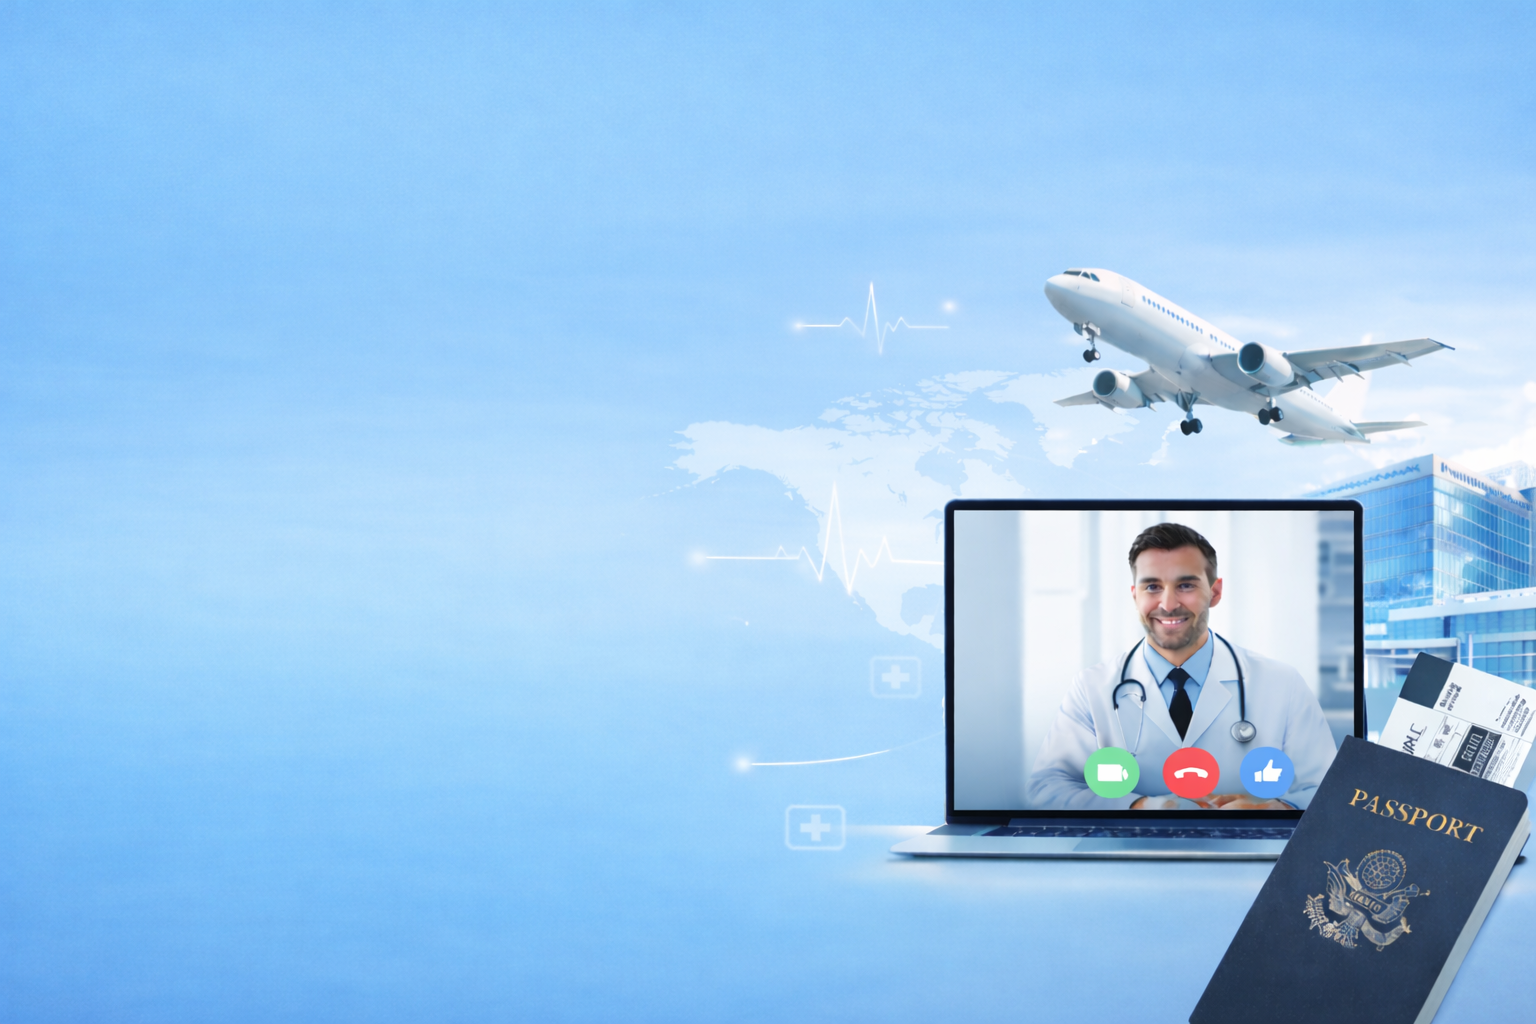
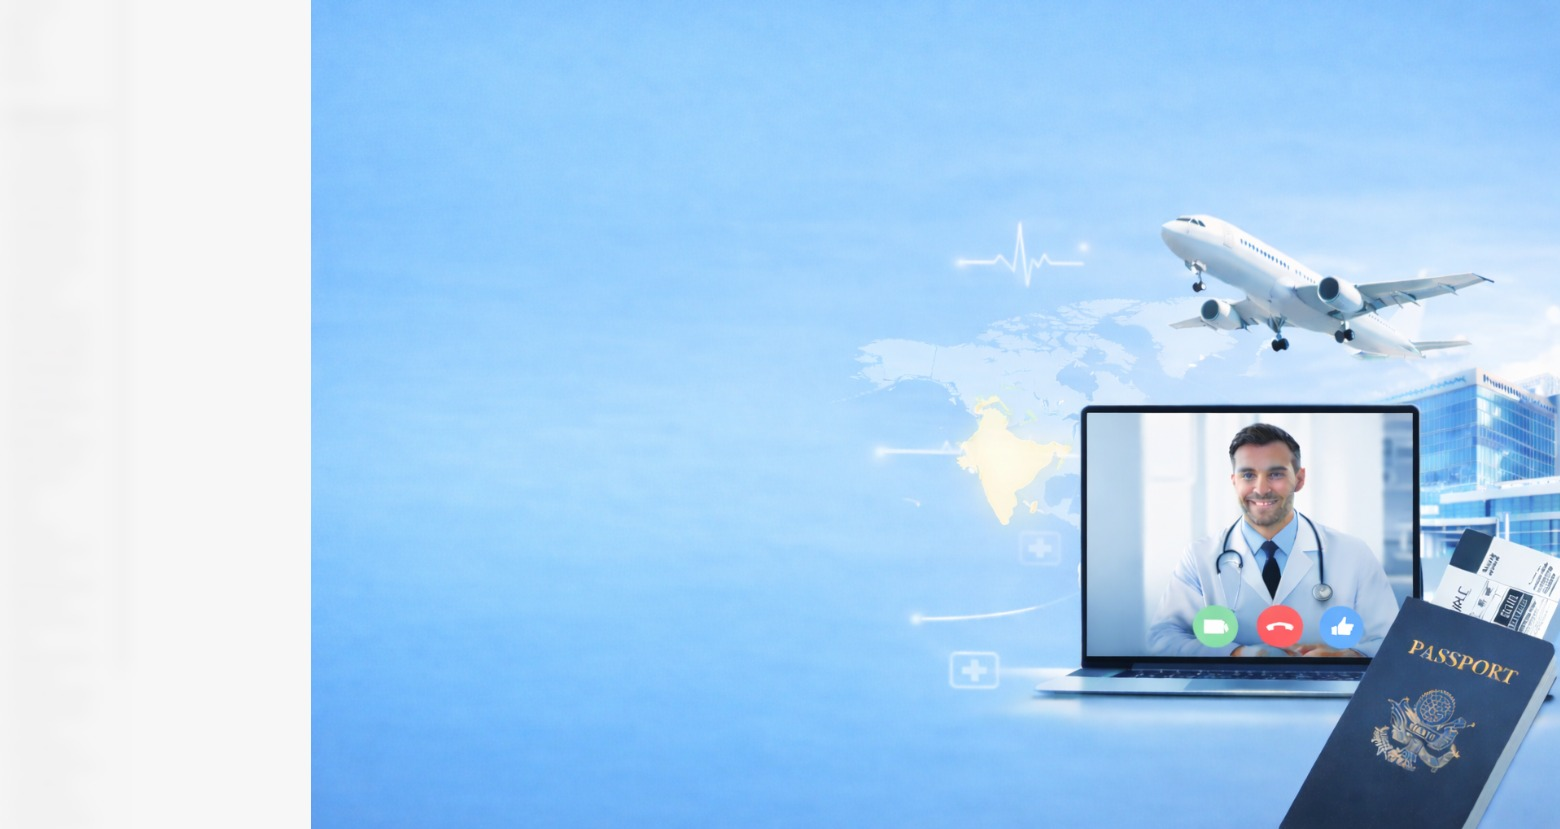
background image enhanced

diff --git a/src/components/Hero/Hero.jsx b/src/components/Hero/Hero.jsx
@@ -5,7 +5,7 @@ import herobg from "../../assets/images/herobg.png";
   const Hero = () => {
   // Combine the white-to-transparent gradient with your background image
   const backgroundStyle = {
-    backgroundImage: `linear-gradient(to right, rgba(255, 255, 255, 1) 0%, rgba(255, 255, 255, 0) 70%, rgba(255, 255, 255, 0) 100%), url(${herobg})`
+    backgroundImage: `linear-gradient(to right, rgba(255, 255, 255, 10) 30%, rgba(255, 255, 255, 0) 70%, rgba(255, 255, 255, 0) 100%), url(${herobg})`
   };
   return (
     <section className="hero" id="home" style={backgroundStyle}>
